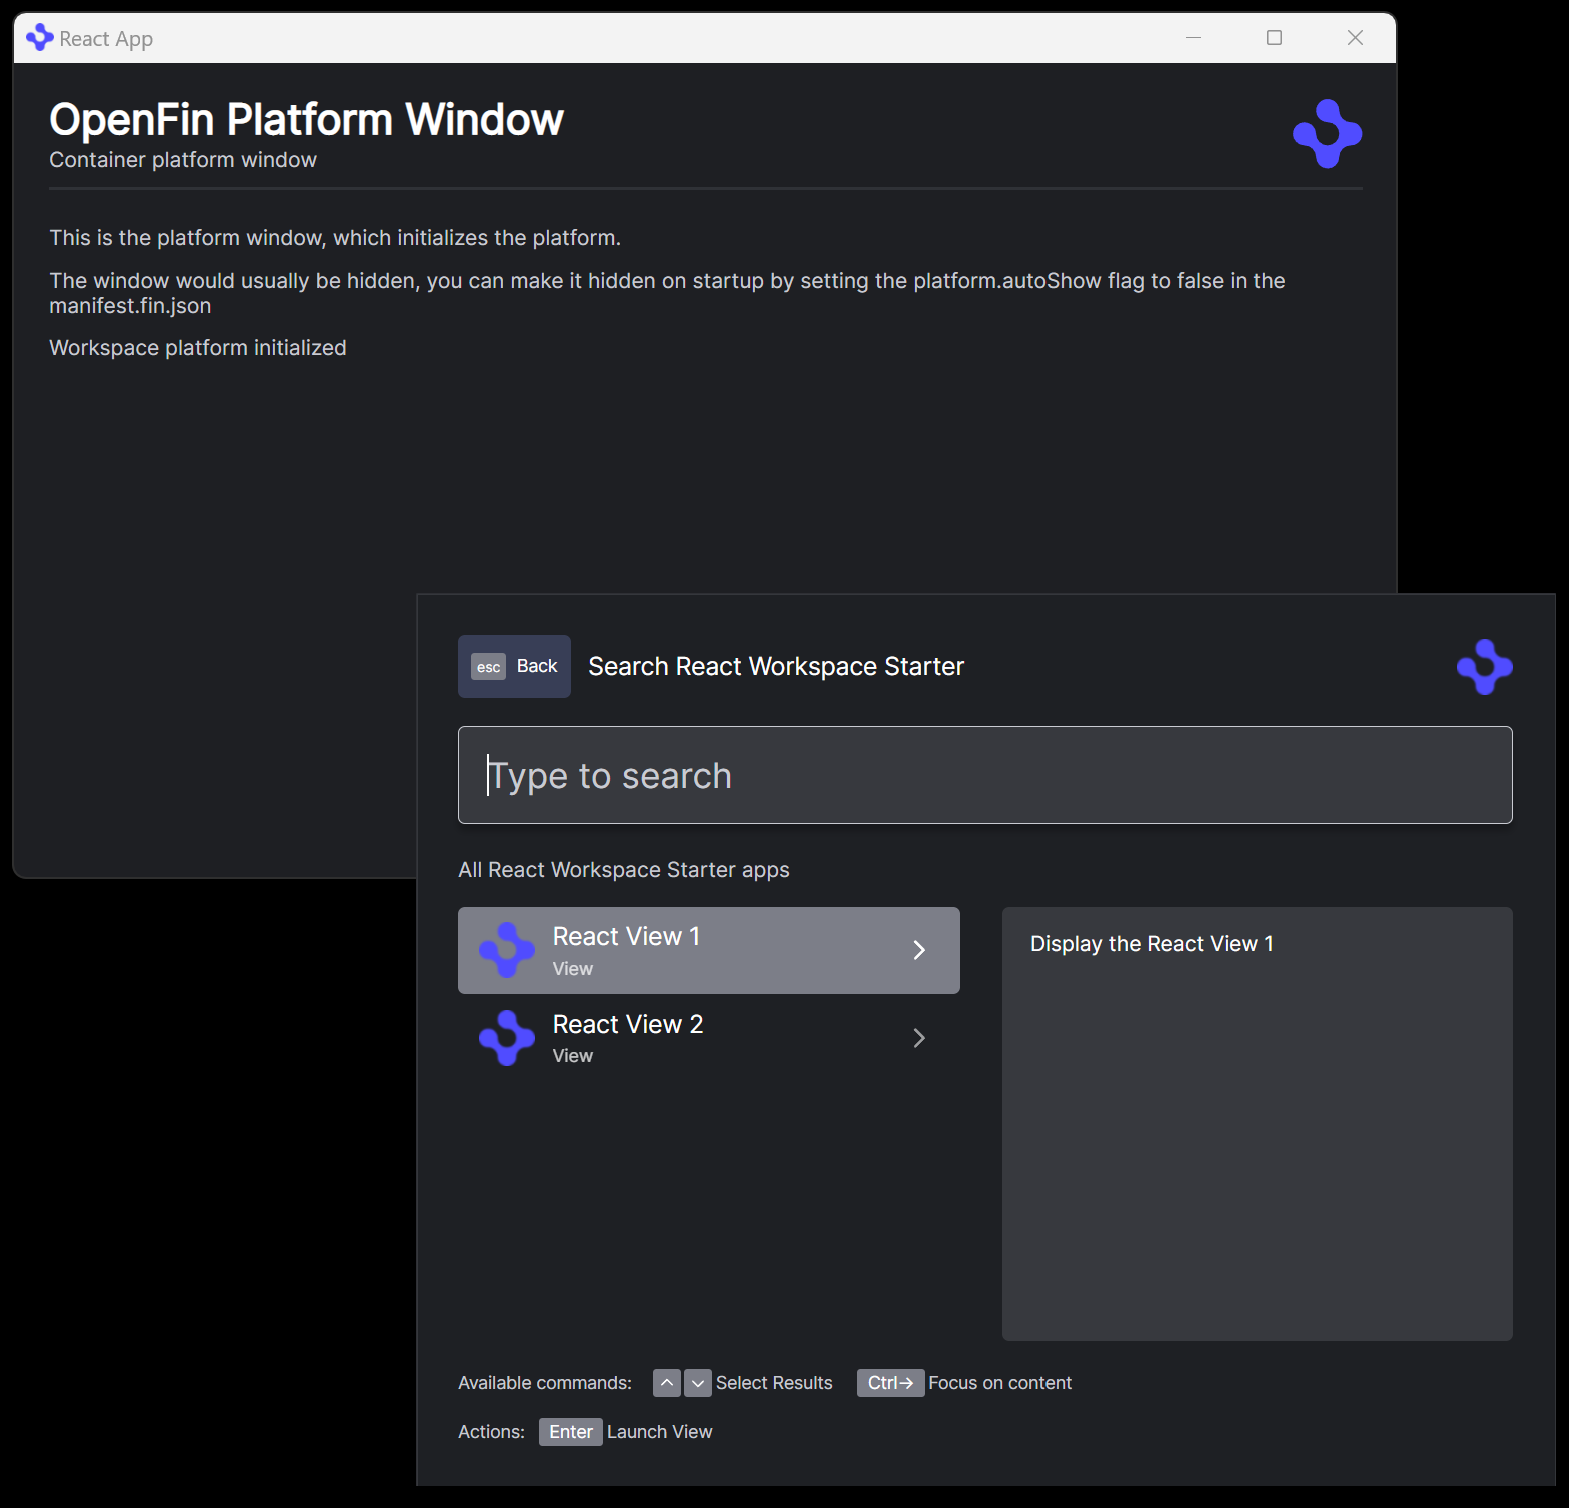
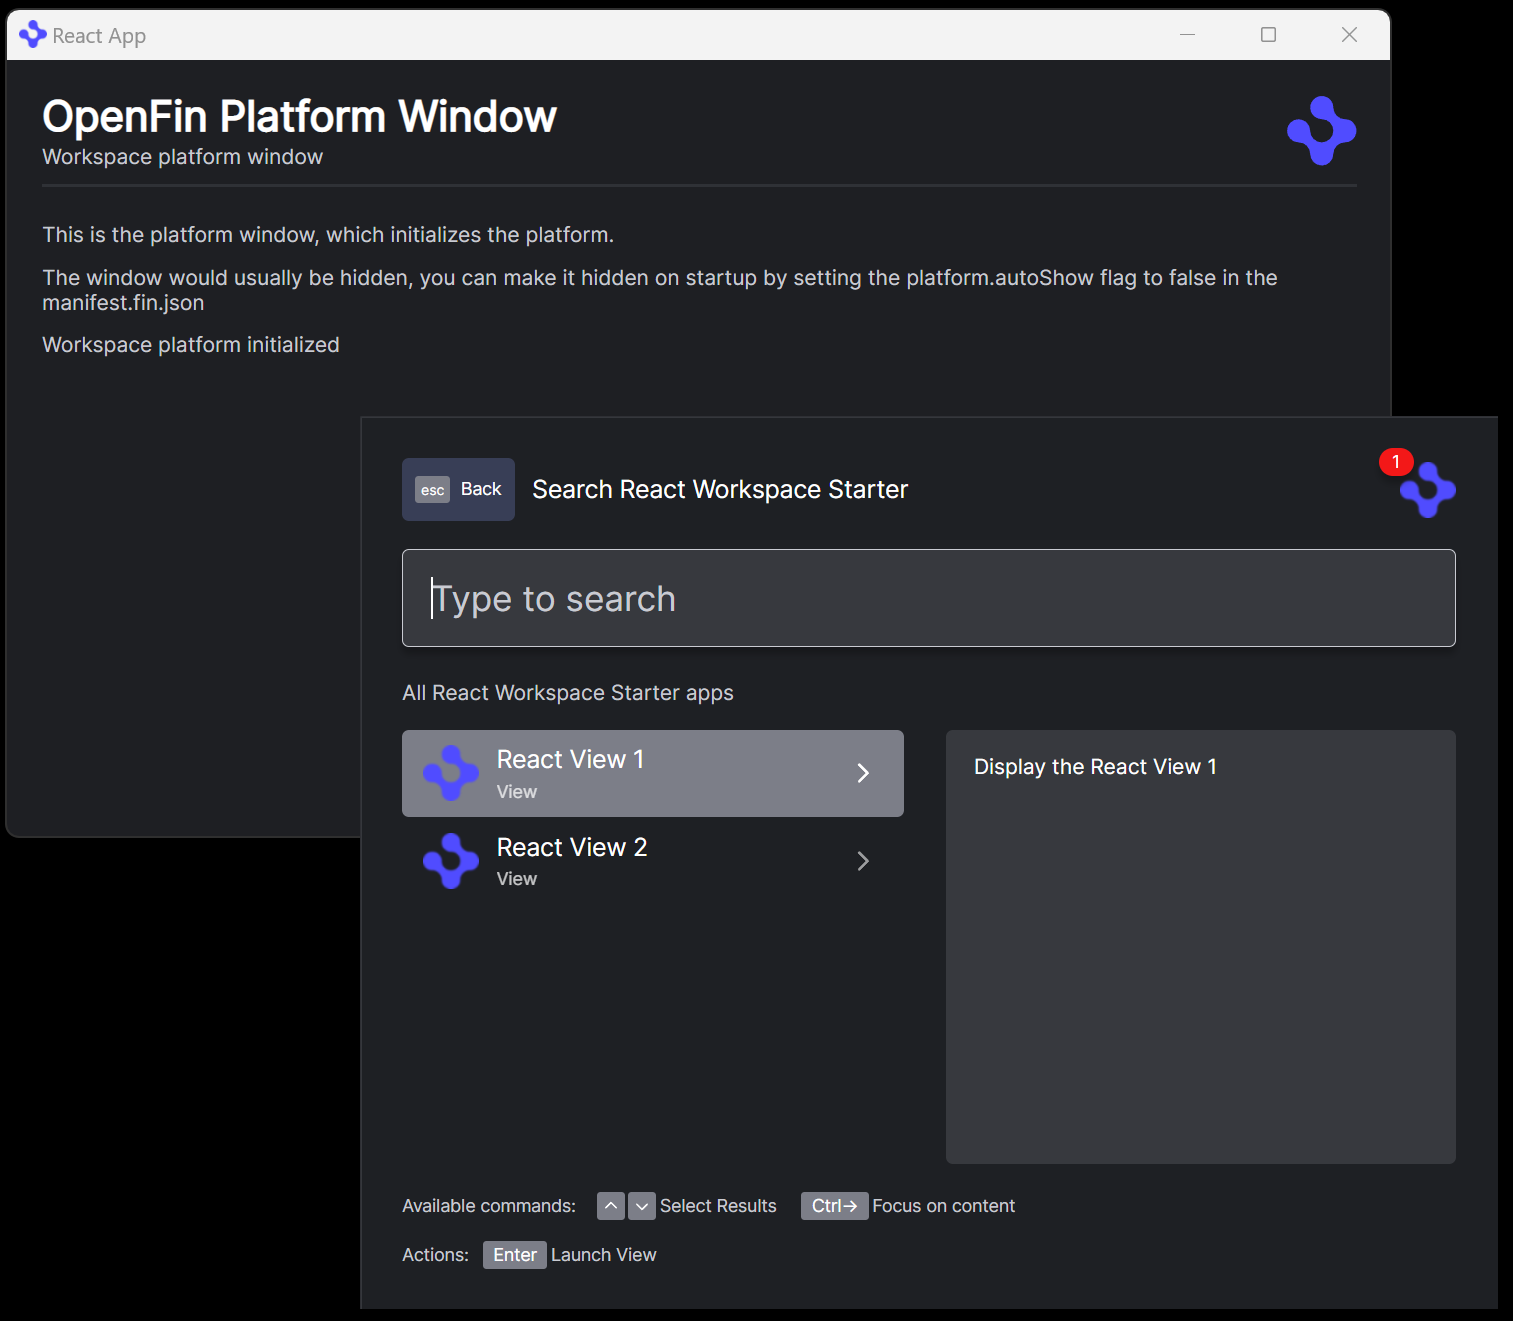
Fix naming

Changed region(s): [[0.0, 0.0, 0.9941, 0.9932], [0.963, 0.6207, 0.9941, 0.869]]

diff --git a/frameworks/react/workspace/src/platform/Provider.tsx b/frameworks/react/workspace/src/platform/Provider.tsx
@@ -51,7 +51,7 @@ function Provider() {
 			<header className="row spread middle">
 				<div className="col">
 					<h1>OpenFin Platform Window</h1>
-					<h1 className="tag">Container platform window</h1>
+					<h1 className="tag">Workspace platform window</h1>
 				</div>
 				<div className="row middle gap10">
 					<img src={logo} alt="OpenFin" height="40px" />

diff --git a/frameworks/react/readme.md b/frameworks/react/readme.md
@@ -38,7 +38,7 @@ If you then run `npm run client` it will start the platform instead, you should 
 
 ![Workspace Platform](./workspace-platform.png)
 
-The platform window content is the [./workspace/src/platform/Provider.tsx](./container/src/platform/Provider.tsx) which also initializes the platform. The applications made available in your platform are read from [./workspace/public/platform/manifest.fin.json](./workspace/public/platform/manifest.fin.json)
+The platform window content is the [./workspace/src/platform/Provider.tsx](./workspace/src/platform/Provider.tsx) which also initializes the platform. The applications made available in your platform are read from [./workspace/public/platform/manifest.fin.json](./workspace/public/platform/manifest.fin.json)
 
 The component visible with the platform window is the OpenFin Workspace Home component, the Home component lists 2 applications which can be launched.
 

diff --git a/frameworks/react/creating-workspace.md b/frameworks/react/creating-workspace.md
@@ -232,7 +232,7 @@ function Provider() {
          <header className="row spread middle">
             <div className="col">
                <h1>OpenFin Platform Window</h1>
-               <h1 className="tag">Container platform window</h1>
+               <h1 className="tag">Workspace platform window</h1>
             </div>
             <div className="row middle gap10">
                <img src={logo} alt="OpenFin" height="40px" />
